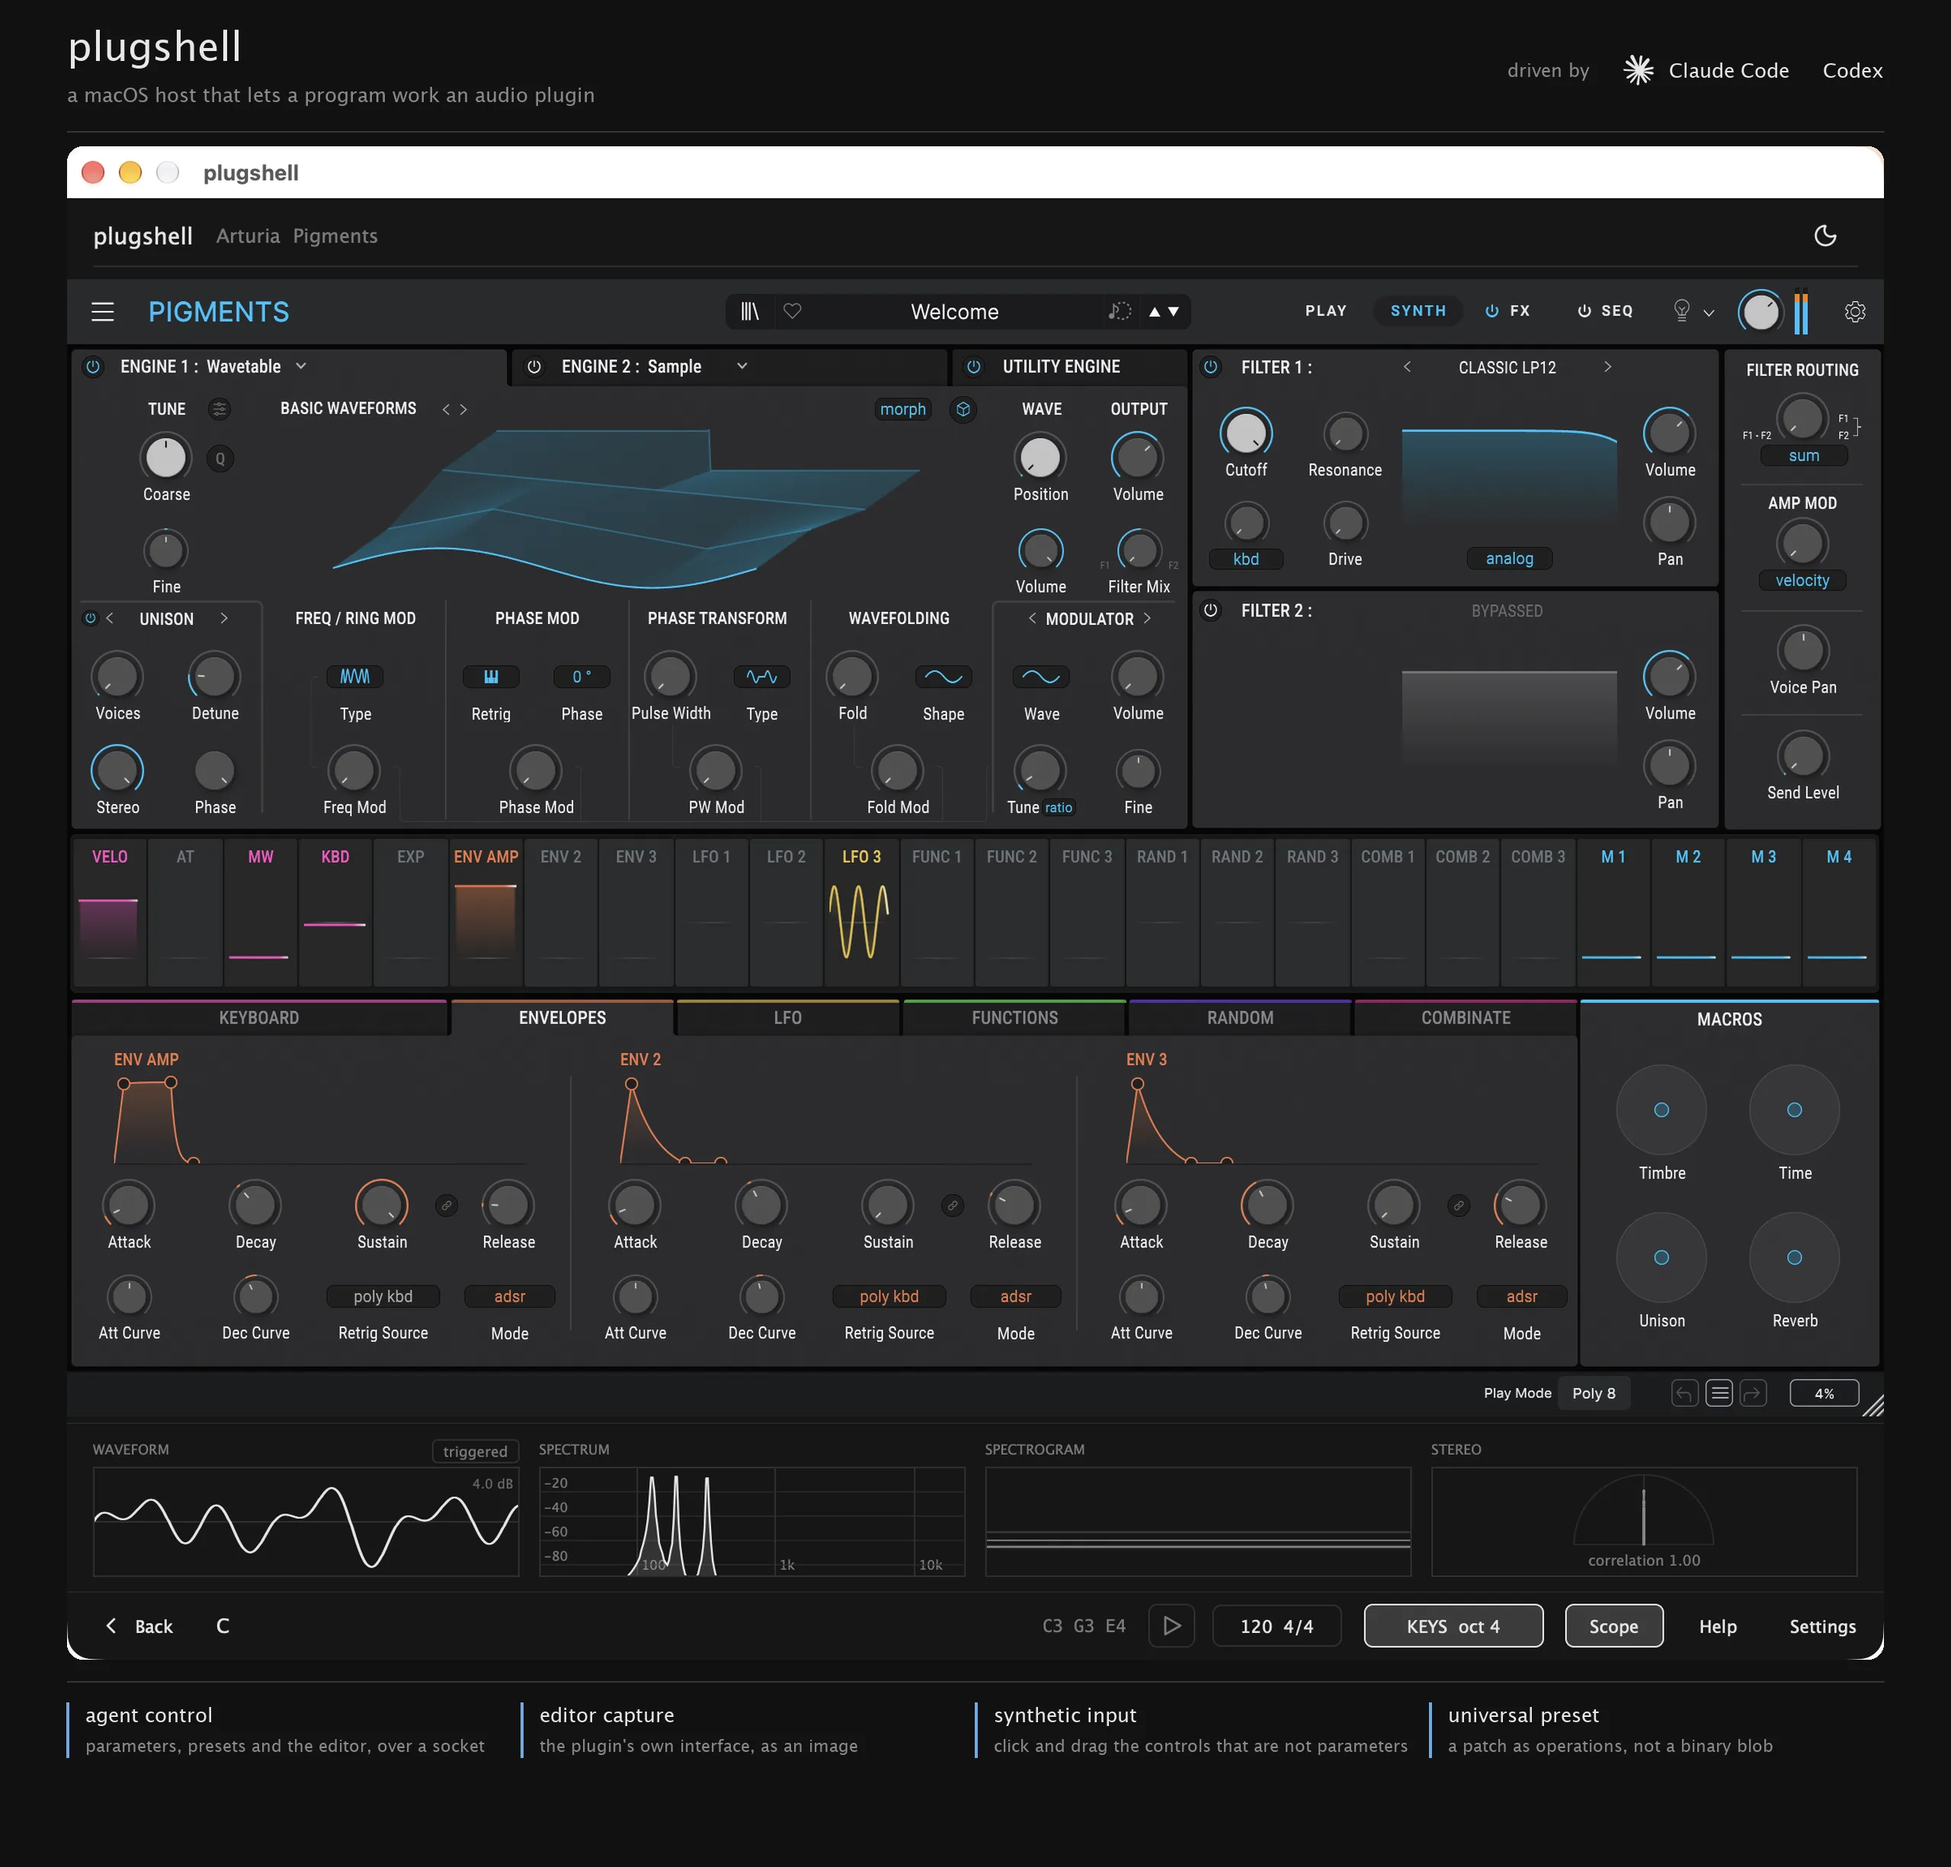
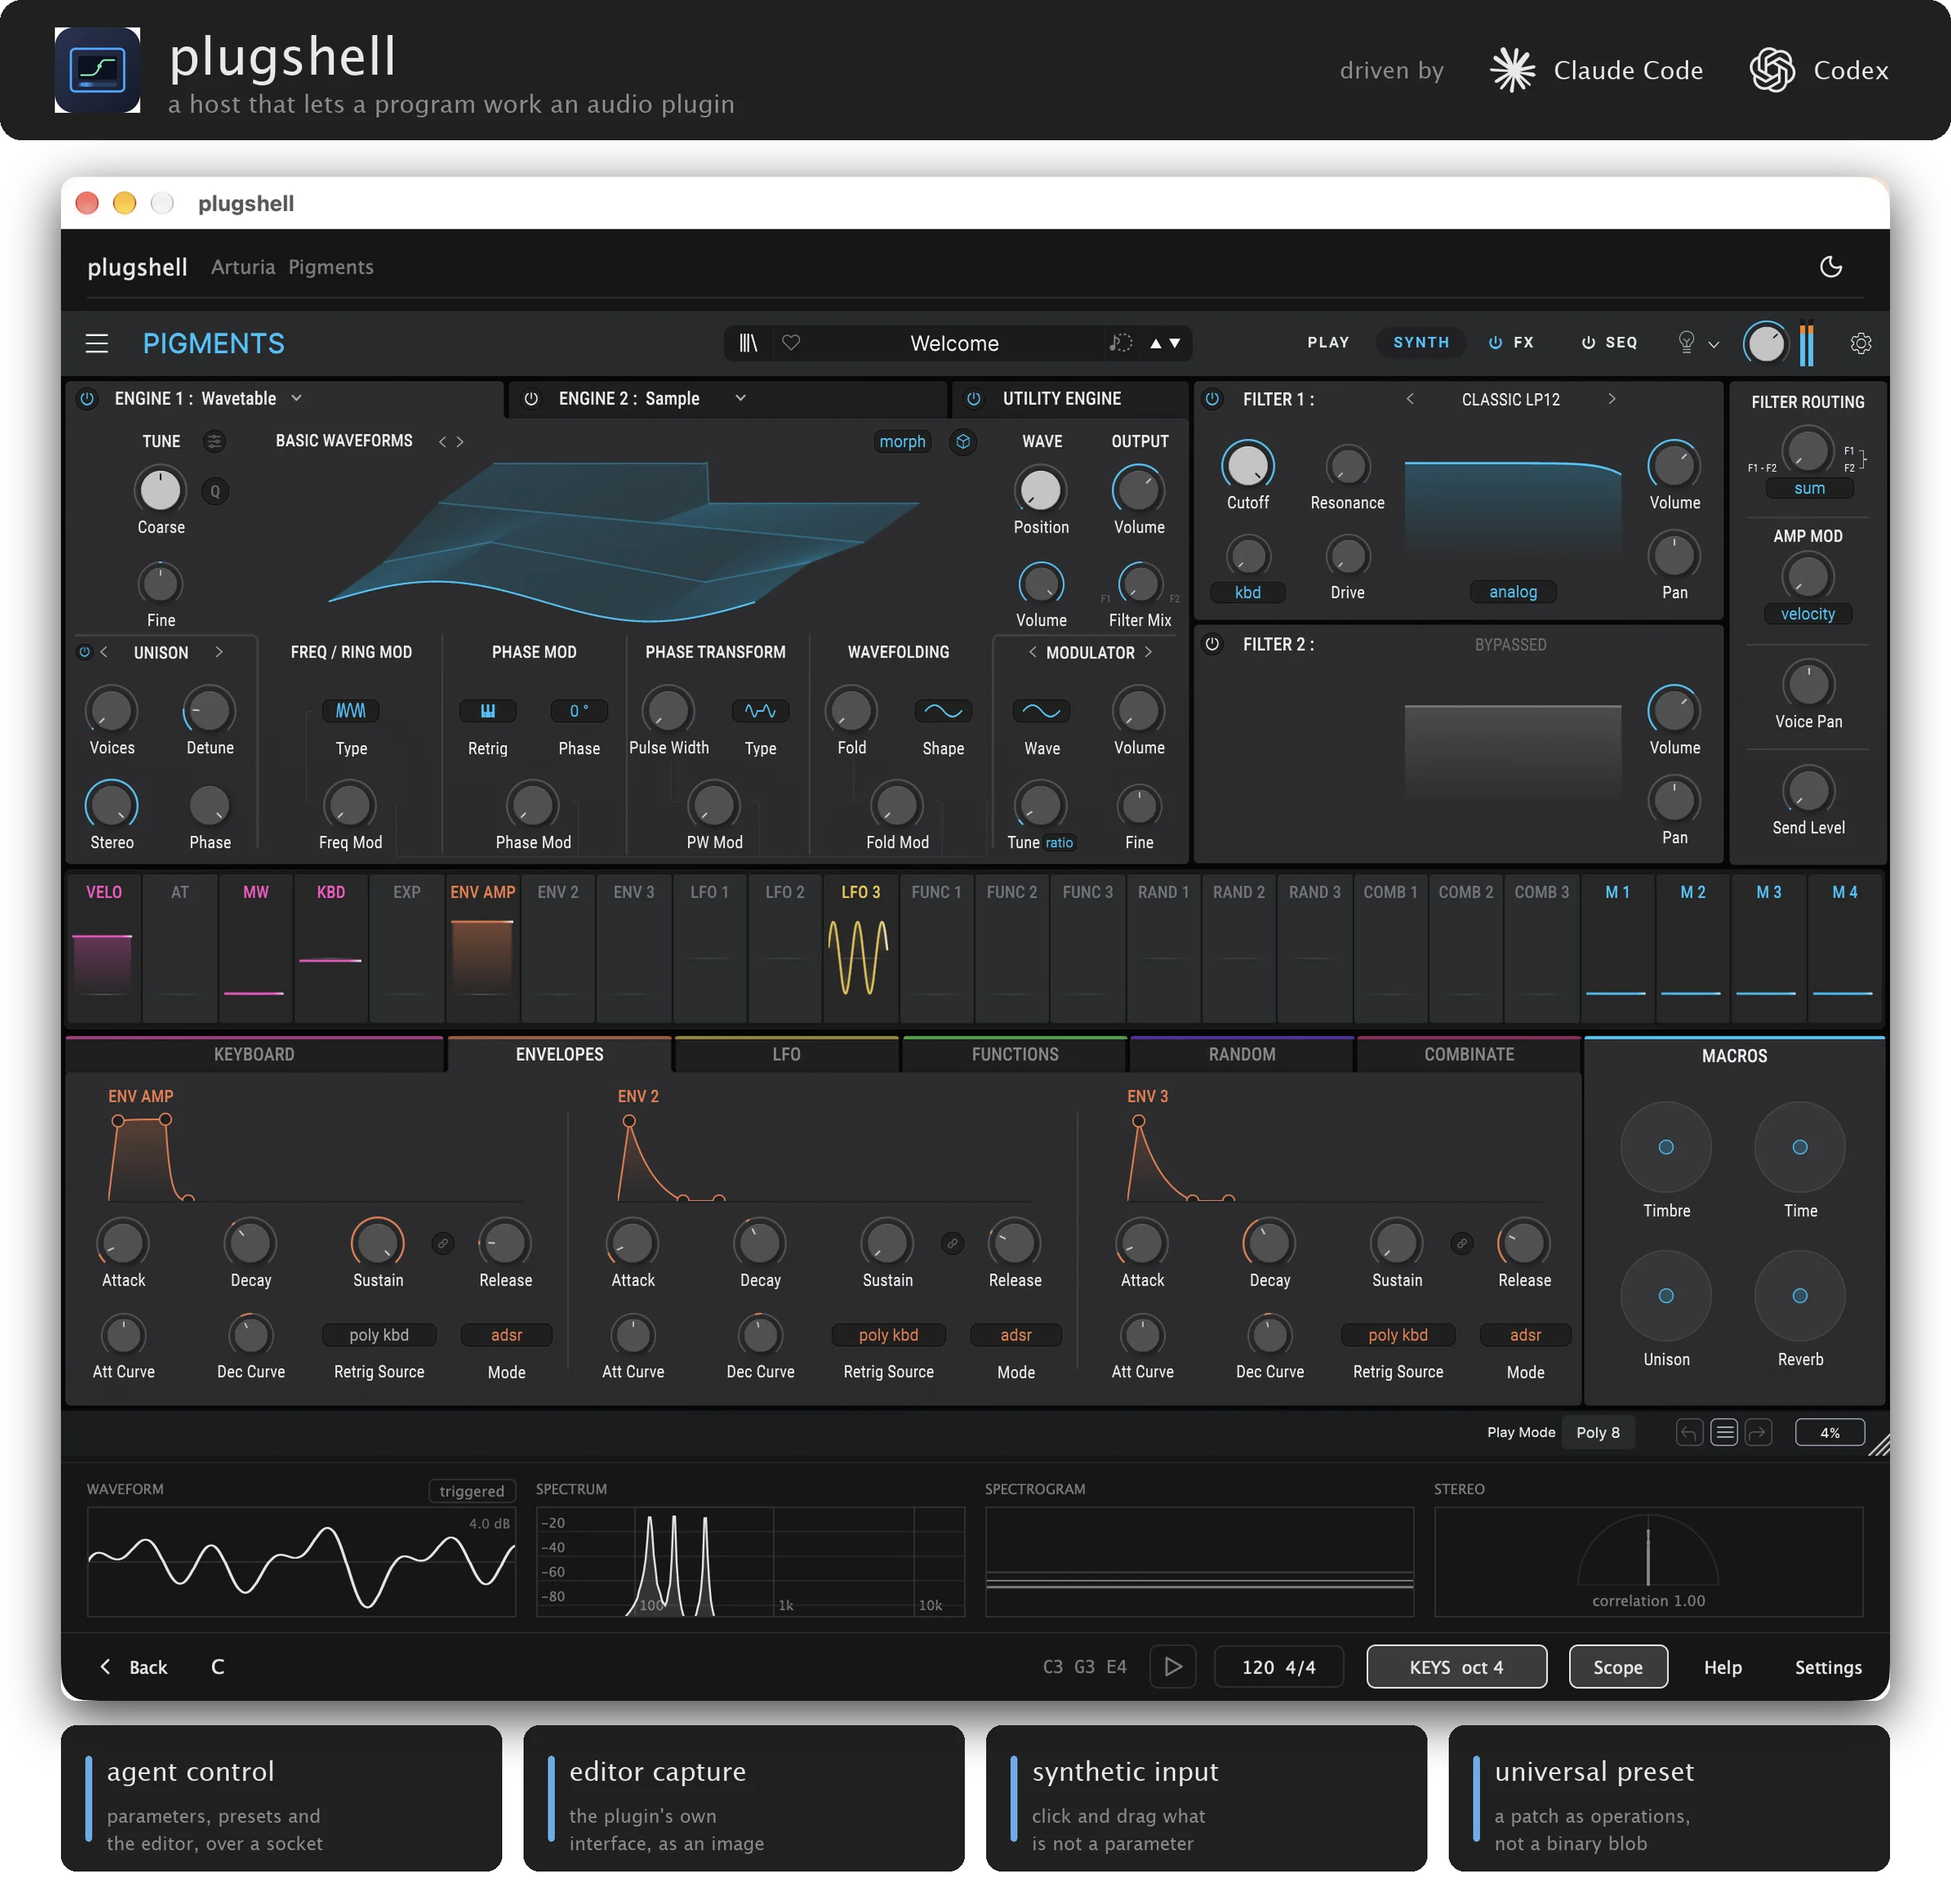
Rework the lead image: transparent, legible, and with both agents on it
Four things it was getting wrong.

It punched a dark rectangle into whatever page it sat on. The background is now
transparent, which means nothing on it may assume what is behind it -- so the
header and each claim sit on their own plate, and the result was checked by
compositing it over white rather than by looking at it on black.

The type was sized for a full-width viewer and read as decoration in a
README's column. Everything is larger: the name at 34, the claims at 17 with
their notes at 12.

The claims were four labels on a rule, which is the layout for a caption and
not for the four things worth knowing. They are now plates with an accent bar,
which is what makes them read as the point rather than as an afterthought.

And Codex now has its mark. simple-icons does not carry OpenAI -- it was
removed from that set -- so it came from lobehub's icon package (MIT) instead.
Both marks are drawn at thirty points, which is the smallest size at which a
logo is doing its job.

The application's own icon is on it, and the screenshot has a shadow: a
screenshot pasted flat reads as a region of a picture, and the shadow is the
cheapest way to say it is a window.

diff --git a/tools/make-hero.py b/tools/make-hero.py
@@ -17,13 +17,13 @@ import subprocess
 import sys
 from pathlib import Path
 
-from PIL import Image, ImageDraw, ImageFont
+from PIL import Image, ImageDraw, ImageFilter, ImageFont
 
 ROOT = Path(__file__).resolve().parent.parent
 
 SCALE = 2  # the whole thing is laid out in points and rendered at 2x
 WIDTH = 1280
-PAD = 44
+PAD = 40
 
 BASE = (18, 18, 18)
 PANEL = (26, 26, 26)
@@ -69,6 +69,27 @@ def svg(path: Path, height: int, colour: str) -> Image.Image:
     return Image.open(BytesIO(out.stdout)).convert("RGBA")
 
 
+def shadowed(image: Image.Image, radius: int, spread: int, drop: int) -> Image.Image:
+    """The image on a transparent field, with a soft shadow beneath it.
+
+    A screenshot pasted flat onto a background reads as part of the background
+    -- a region of a picture rather than a window sitting in front of one. The
+    shadow is what says it is a window, and it is the cheapest way to say it.
+    """
+    pad = spread * 3
+    field = Image.new("RGBA", (image.width + pad * 2, image.height + pad * 2 + drop), (0, 0, 0, 0))
+
+    cast = Image.new("RGBA", field.size, (0, 0, 0, 0))
+    ImageDraw.Draw(cast).rounded_rectangle(
+        [pad, pad + drop, pad + image.width, pad + drop + image.height], radius, fill=(0, 0, 0, 190)
+    )
+    field.alpha_composite(cast.filter(ImageFilter.GaussianBlur(spread)))
+
+    rounded_image = rounded(image, radius)
+    field.alpha_composite(rounded_image, (pad, pad))
+    return field
+
+
 def rounded(image: Image.Image, radius: int) -> Image.Image:
     mask = Image.new("L", image.size, 0)
     ImageDraw.Draw(mask).rounded_rectangle([0, 0, image.size[0] - 1, image.size[1] - 1], radius, fill=255)
@@ -84,83 +105,110 @@ def main():
     shot = Image.open(sys.argv[1]).convert("RGB")
     out_path = Path(sys.argv[2] if len(sys.argv) > 2 else ROOT / "assets" / "hero.png")
 
-    # The screenshot sets the height; everything else is measured from it.
     shot_w = WIDTH - PAD * 2
     shot_h = round(shot.height * shot_w / shot.width)
     shot = shot.resize((shot_w * SCALE, shot_h * SCALE), Image.LANCZOS)
 
-    header = 96
-    footer = 92
-    height = header + shot_h + footer + PAD
+    header = 116
+    footer = 132
+    height = header + shot_h + footer
 
-    canvas = Image.new("RGB", (WIDTH * SCALE, height * SCALE), BASE)
+    # Transparent, so the image sits on whatever the page behind it is rather
+    # than punching a dark rectangle into a light one. Everything drawn on it
+    # therefore has to carry its own contrast: the text sits on panels, not on
+    # an assumption about what is underneath.
+    canvas = Image.new("RGBA", (WIDTH * SCALE, height * SCALE), (0, 0, 0, 0))
     d = ImageDraw.Draw(canvas)
 
     def at(x, y):
-        return (x * SCALE, y * SCALE)
+        return (round(x * SCALE), round(y * SCALE))
+
+    def panel(x, y, w, h, radius=10):
+        plate = Image.new("RGBA", (round(w * SCALE), round(h * SCALE)), (0, 0, 0, 0))
+        ImageDraw.Draw(plate).rounded_rectangle(
+            [0, 0, plate.width - 1, plate.height - 1], radius * SCALE, fill=(24, 24, 24, 246)
+        )
+        canvas.alpha_composite(plate, at(x, y))
 
     # ---------------------------------------------------------- the header
 
-    d.text(at(PAD, 30), "plugshell", font=font(26), fill=INK, anchor="lm")
+    panel(0, 0, WIDTH, 92, 14)
+
+    mark_size = 56
+    mark = Image.open(ROOT / "assets" / "icon-1024.png").convert("RGBA")
+    mark = mark.resize((mark_size * SCALE, mark_size * SCALE), Image.LANCZOS)
+    canvas.alpha_composite(mark, at(PAD - 4, 18))
+
+    left = PAD + mark_size + 14
+
+    d.text(at(left, 36), "plugshell", font=font(34), fill=INK, anchor="lm")
     d.text(
-        at(PAD, 62),
-        "a macOS host that lets a program work an audio plugin",
-        font=font(13),
+        at(left, 68),
+        "a host that lets a program work an audio plugin",
+        font=font(16),
         fill=MUTE,
         anchor="lm",
     )
 
-    # The agents it is built to be driven by, right-aligned so the eye ends on
-    # them after reading the claim.
-    claude = svg(ROOT / "assets" / "logos" / "claude.svg", 20, "#e8e8e8")
-
-    label = font(13)
-    codex = "Codex"
-    codex_w = d.textlength(codex, font=label) / SCALE
+    # The agents it is built for, at a size that reads at a glance -- which is
+    # the only size worth drawing a logo at.
+    logo_h = 30
+    claude = svg(ROOT / "assets" / "logos" / "claude.svg", logo_h, "#e8e8e8")
+    openai = svg(ROOT / "assets" / "logos" / "openai.svg", logo_h, "#e8e8e8")
 
     right = WIDTH - PAD
-    gap = 22
+    label = font(16)
 
-    d.text(at(right, 46), codex, font=label, fill=INK, anchor="rm")
-    right -= codex_w + gap
+    for logo, name in ((openai, "Codex"), (claude, "Claude Code")):
+        width = d.textlength(name, font=label) / SCALE
+        d.text(at(right, 46), name, font=label, fill=INK, anchor="rm")
+        right -= width + 12
 
-    d.text(at(right, 46), "Claude Code", font=label, fill=INK, anchor="rm")
-    right -= d.textlength("Claude Code", font=label) / SCALE + 10
+        canvas.alpha_composite(logo, (round(right * SCALE - logo.width), round(46 * SCALE - logo.height / 2)))
+        right -= logo.width / SCALE + 30
 
-    canvas.paste(claude, (round(right * SCALE - claude.width), round(46 * SCALE - claude.height / 2)), claude)
-    right -= claude.width / SCALE + gap
-
-    d.text(at(right, 46), "driven by", font=font(12), fill=MUTE, anchor="rm")
+    d.text(at(right, 46), "driven by", font=font(15), fill=MUTE, anchor="rm")
 
     # ------------------------------------------------------ the screenshot
 
-    d.line([at(PAD, 86), at(WIDTH - PAD, 86)], fill=HAIR, width=1 * SCALE)
-    canvas.paste(rounded(shot, 10 * SCALE), (PAD * SCALE, header * SCALE), rounded(shot, 10 * SCALE))
+    framed = shadowed(shot, 10 * SCALE, 16 * SCALE, 10 * SCALE)
+    canvas.alpha_composite(
+        framed, (PAD * SCALE - (framed.width - shot.width) // 2, header * SCALE - 16 * SCALE * 3)
+    )
 
     # ---------------------------------------------------------- the claims
-
-    y = header + shot_h + 34
-    d.line([at(PAD, y - 20), at(WIDTH - PAD, y - 20)], fill=HAIR, width=1 * SCALE)
+    #
+    # Each on its own plate, because four labels floating on a transparent
+    # field are four labels nobody can read against an unknown background.
 
     claims = [
-        ("agent control", "parameters, presets and the editor, over a socket"),
-        ("editor capture", "the plugin's own interface, as an image"),
-        ("synthetic input", "click and drag the controls that are not parameters"),
-        ("universal preset", "a patch as operations, not a binary blob"),
+        ("agent control", "parameters, presets and\nthe editor, over a socket"),
+        ("editor capture", "the plugin's own\ninterface, as an image"),
+        ("synthetic input", "click and drag what\nis not a parameter"),
+        ("universal preset", "a patch as operations,\nnot a binary blob"),
     ]
 
-    column = (WIDTH - PAD * 2) / len(claims)
+    gap = 14
+    plate_w = (WIDTH - PAD * 2 - gap * (len(claims) - 1)) / len(claims)
+    plate_h = 96
+    top = header + shot_h + 16
 
     for i, (name, note) in enumerate(claims):
-        x = PAD + column * i
+        x = PAD + (plate_w + gap) * i
+        panel(x, top, plate_w, plate_h)
 
-        d.line([at(x, y - 6), at(x, y + 30)], fill=ACCENT, width=2 * SCALE)
-        d.text(at(x + 12, y + 2), name, font=font(13), fill=INK, anchor="lm")
-        d.text(at(x + 12, y + 22), note, font=font(11), fill=MUTE, anchor="lm")
+        d.rounded_rectangle(
+            [at(x + 16, top + 20), at(x + 20, top + plate_h - 20)], 2 * SCALE, fill=ACCENT
+        )
+
+        d.text(at(x + 30, top + 30), name, font=font(17), fill=INK, anchor="lm")
+        d.multiline_text(
+            at(x + 30, top + 52), note, font=font(12), fill=MUTE, spacing=6 * SCALE, anchor="la"
+        )
 
     out_path.parent.mkdir(parents=True, exist_ok=True)
     canvas.save(out_path)
-    print(f"wrote {out_path}  {canvas.size[0]}x{canvas.size[1]}")
+    print(f"wrote {out_path}  {canvas.size[0]}x{canvas.size[1]}  (transparent)")
 
 
 if __name__ == "__main__":

diff --git a/README.md b/README.md
@@ -2,14 +2,20 @@
 
 # plugshell
 
-**A macOS host that lets a program work an audio plugin.**
+**A host that lets a program work an audio plugin.**
 
 Not only read its parameters — see its editor, click the controls that are not
 parameters, render it to audio, and describe a patch as a sequence of
 operations rather than an opaque binary blob.
 
 > **Status: early, and it runs.** Everything under [What works](#what-works) is
-> built and has been used. Everything under [Roadmap](#roadmap) has not.
+> built and has been used; everything under [Roadmap](#roadmap) is not.
+>
+> **macOS first, not macOS only.** Editor capture and synthetic input are the
+> two parts that are genuinely platform work, and they are written against a
+> small shim -- `EditorProbe` -- with the rest of the application above it.
+> Windows and Linux mean a second implementation of that shim, not a second
+> application.
 
 ---
 
